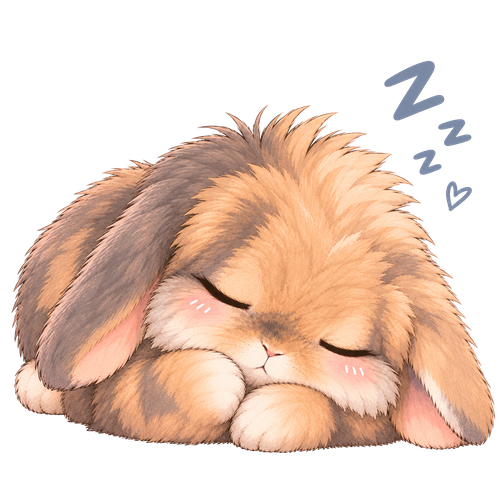
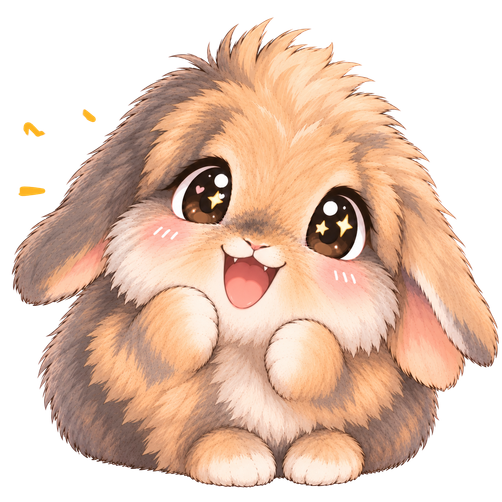
fix: corriger le mapping des 10 émotions de Bloom + varier leur usage
Bug d'extraction initial : l'ordre des objets image dans le PDF ne suivait
pas l'ordre de lecture visuelle de la planche "Les émotions de Bloom"
(page 7), ce qui avait permuté les 10 fichiers extraits. Résultat concret :
le fichier "cute" contenait en réalité l'illustration "qui célèbre" (fête,
confettis, gâteau), qui apparaissait donc dans tous les états censés être
calmes/neutres (scanner en attente, empty states par défaut, onboarding).

Réextrait et réassocié chaque fichier à sa bonne émotion en comparant
individuellement à la planche de référence du PDF.

Fait aussi varier légèrement l'usage : AuthShell accepte désormais une
émotion en prop (register utilise "excited" pour l'enthousiasme d'une
nouvelle aventure, login garde "happy" pour l'accueil).

Claude-Session: https://claude.ai/code/session_01WNGEHWhdyxXuSS4VGKmYWm

diff --git a/src/components/auth/AuthShell.tsx b/src/components/auth/AuthShell.tsx
@@ -1,21 +1,23 @@
 import type { ReactNode } from "react";
 import { BloomCharacter } from "@/components/bloom/BloomCharacter";
 import { SITE_CONFIG } from "@/config/site";
+import type { BloomEmotion } from "@/types";
 
 export interface AuthShellProps {
   title: string;
   subtitle?: string;
   children: ReactNode;
   footer?: ReactNode;
+  bloomEmotion?: BloomEmotion;
 }
 
 /** Habillage partagé login/register — pitch produit + Bloom (contenu public). */
-export function AuthShell({ title, subtitle, children, footer }: AuthShellProps) {
+export function AuthShell({ title, subtitle, children, footer, bloomEmotion = "happy" }: AuthShellProps) {
   return (
     <div className="flex min-h-dvh items-center justify-center bg-taupe px-4 py-10">
       <div className="w-full max-w-md space-y-6">
         <div className="flex flex-col items-center gap-3 text-center text-ivory">
-          <BloomCharacter emotion="happy" size="lg" animated />
+          <BloomCharacter emotion={bloomEmotion} size="lg" animated />
           <div>
             <p className="text-small font-semibold uppercase tracking-wide text-ivory/80">
               {SITE_CONFIG.tagline}

diff --git a/src/app/register/page.tsx b/src/app/register/page.tsx
@@ -25,6 +25,7 @@ export default function RegisterPage() {
     <AuthShell
       title="Rejoins Le Jardin de Bloom"
       subtitle="Petite plante, grande aventure !"
+      bloomEmotion="excited"
       footer={
         <>
           Déjà un compte ?{" "}
